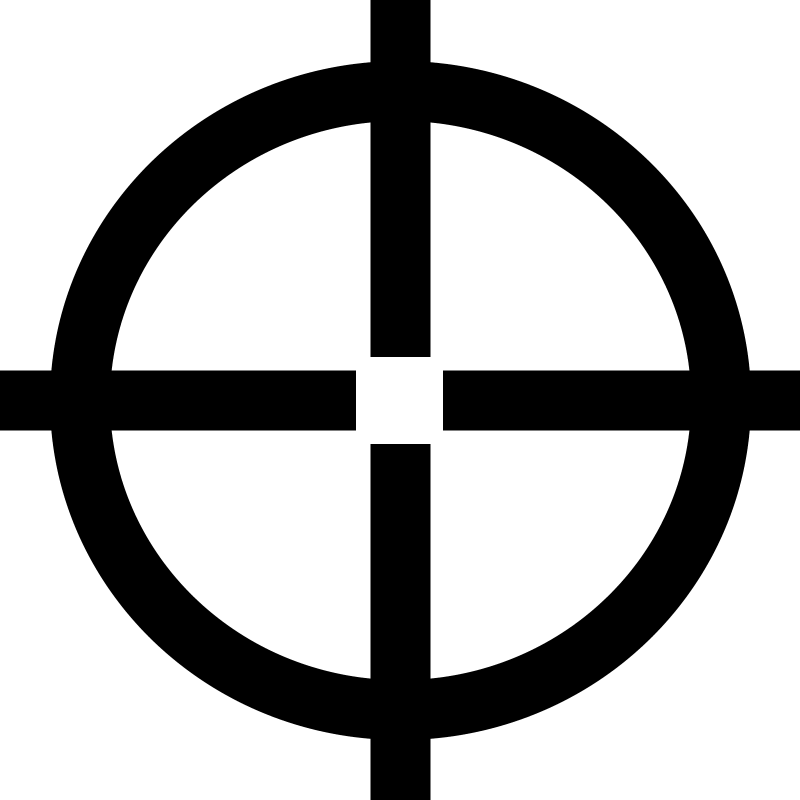
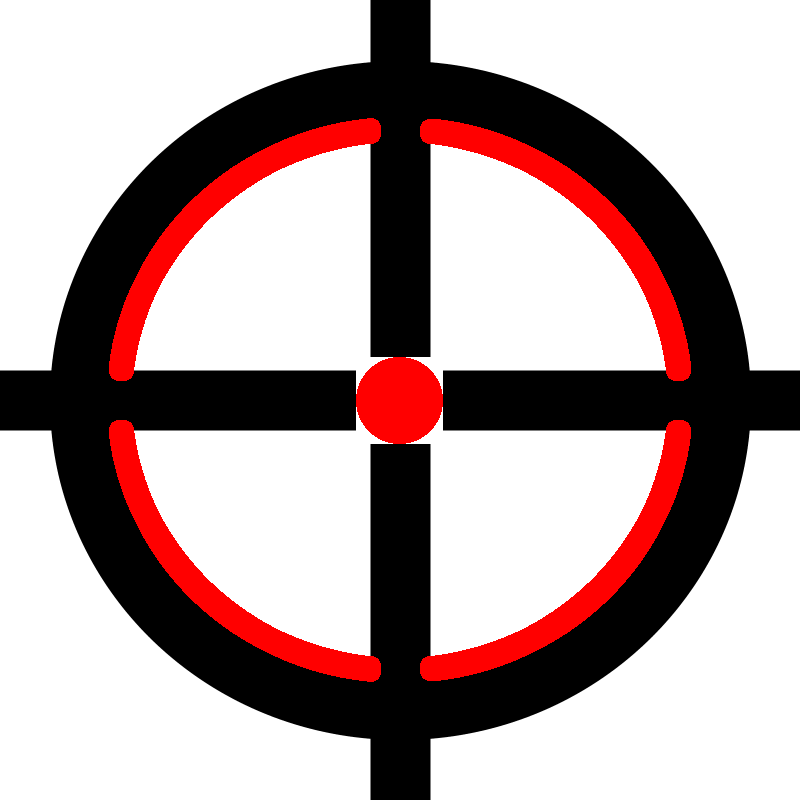
Changed cursor and added light levels

Changed region(s): [[0.125, 0.125, 0.875, 0.5], [0.125, 0.5312, 0.875, 0.875], [0.4375, 0.4375, 0.5625, 0.5625]]

diff --git a/Assets/Scripts/Settings.cs b/Assets/Scripts/Settings.cs
@@ -8,6 +8,8 @@ public class Settings : MonoBehaviour
     public GameObject UpgradeFour;
     public GameObject UpgradeFive;
 
+    public GameObject sun;
+
     public int CarsDestroyed { get; private set; }
     public int FrogsSplatted { get; private set; }
     public int FrogsSaved { get; private set; }
@@ -40,10 +42,20 @@ public class Settings : MonoBehaviour
     public void OnFrogSaved()
     {
         FrogsSaved++;
+        Difficulty = Mathf.Max(1, FrogsSaved / 2);
+        var light = sun.GetComponent<Light>();
+        light.intensity = GetLightIntensity();
     }
-    
-    public void Update()
+
+    private float GetLightIntensity()
     {
-        Difficulty = Mathf.Max(1, FrogsSaved / 10);
+        switch (Difficulty)
+        {
+            case 1: return 0.5f;
+            case 2: return 0.4f;
+            case 3: return 0.25f;
+            case 4: return 0.1f;
+            default: return 0.0f;
+        }
     }
 }

diff --git a/Assets/Scripts/MouseSpotlight.cs b/Assets/Scripts/MouseSpotlight.cs
@@ -1,0 +1,16 @@
+using UnityEngine;
+
+public class MouseSpotlight : MonoBehaviour
+{
+    public GameObject spotlight;
+    public LayerMask groundMask;
+    private Vector2 mousePos;
+
+    void FixedUpdate()
+    {
+        mousePos = Camera.main.ScreenToWorldPoint (Input.mousePosition);
+        Debug.Log($"{mousePos}");
+        Debug.Log($"{Input.mousePosition}");
+        transform.LookAt(new Vector3(mousePos.x, 0, mousePos.y));
+    }
+}
